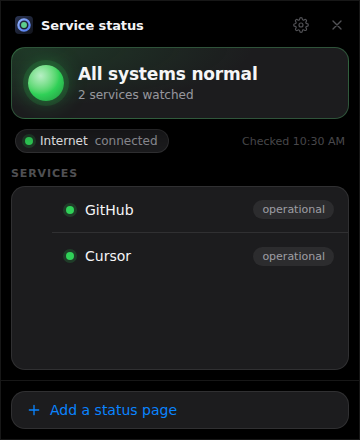
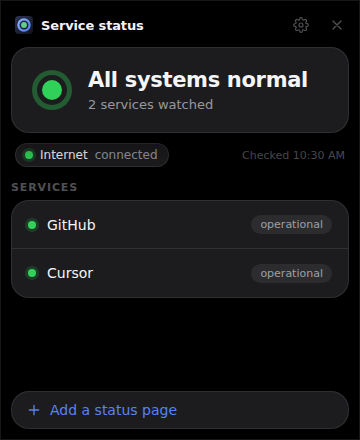
feat(ui): give the panel the brand's own mark and colour, and drop the glows
The hero's state indicator was a glossy radial-gradient sphere with a
coloured glow halo, on a card with its own radial colour wash: a dated,
skeuomorphic look and the glow pattern that reads as generated. It is
now the brand mark itself (a ring around a dot) recoloured by state, as
the tray icon's variants already are, drawn flat. Healthy keeps a plain
card; only trouble gets a flat tint. The popup card loses its wash too.

The accent moves from systemBlue to the brand ring's blue, darkened for
text contrast, so the panel carries the family colour it shares with
task-tracker. The hero headline is larger, and big surfaces get softer
corners and a little more room.

Two layout bugs fixed along the way: the service list never reset the
browser's default list padding, so every row sat 40px in from the card
and a row in trouble drew its red edge floating inside it; and the list
stretched to fill the panel as an empty card. The popup's status-page
link also used a bare Unicode arrow against the repo's own rule that
every icon is a drawn SVG.

Claude-Session: https://claude.ai/code/session_01B9UMFziMhk4DMDDinKgjAC

diff --git a/src/styles.css b/src/styles.css
@@ -4,8 +4,9 @@
  * The window is opaque on purpose: a transparent one needs macOS private API
  * and fails silently without it (see src-tauri/Cargo.toml). So everything
  * modern here happens inside the rectangle: a hero that answers "is anything
- * down?" before a row is read, tinted and lit by the overall state; tiles with
- * glowing dots and level pills; and a popup with an accent edge.
+ * down?" before a row is read, marked with the brand's ring-and-dot in the
+ * overall state's colour; rows with ringed dots and level pills; and a popup
+ * with an accent edge. Flat fills throughout: no glows, no glossy gradients.
  *
  * Motion is GPU-only (transform/opacity) and respects prefers-reduced-motion.
  * State colours are always paired with words, never the only signal.
@@ -15,10 +16,11 @@
   color-scheme: light dark;
 
   /*
-   * Apple's own system colours (light), so this reads as native rather than
-   * "a website with rounded corners": systemGray6/5 for the grouped
-   * background and its raised cards, the label/secondaryLabel/separator
-   * opacities, and systemBlue/Green/Orange/Red for accent and tone.
+   * Apple's system greys and state colours (light) so the chrome still reads
+   * native: systemGray6/5 for the grouped background and its raised cards,
+   * the label/secondaryLabel/separator opacities, systemGreen/Orange/Red for
+   * tone. The accent is not systemBlue: it is the brand mark's ring blue
+   * (src-tauri/icons), darkened for text contrast, shared with task-tracker.
    */
   --bg: #f2f2f7;
   --surface: #ffffff;
@@ -27,7 +29,7 @@
   --ink-dim: rgb(60 60 67 / 60%);
   --ink-faint: rgb(60 60 67 / 35%);
   --line: rgb(60 60 67 / 16%);
-  --accent: #007aff;
+  --accent: #3d64d8;
   --accent-ink: #ffffff;
 
   --good: #34c759;
@@ -35,7 +37,7 @@
   --bad: #ff3b30;
   --idle: #8e8e93;
 
-  --radius: 14px;
+  --radius: 18px;
   --shadow: 0 1px 3px rgb(0 0 0 / 4%), 0 8px 24px rgb(0 0 0 / 6%);
 
   font-family:
@@ -57,7 +59,7 @@
     --ink-dim: rgb(235 235 245 / 60%);
     --ink-faint: rgb(235 235 245 / 35%);
     --line: rgb(255 255 255 / 9%);
-    --accent: #0a84ff;
+    --accent: #5a82f5;
     --accent-ink: #ffffff;
 
     --good: #30d158;
@@ -288,37 +290,36 @@ button {
   position: relative;
   display: flex;
   align-items: center;
-  gap: 14px;
+  gap: 16px;
   margin: 2px 10px 0;
-  padding: 16px;
-  border: 1px solid color-mix(in srgb, var(--tone) 22%, var(--line));
+  padding: 20px;
+  border: 1px solid var(--line);
   border-radius: var(--radius);
-  background:
-    radial-gradient(
-      120% 140% at 0% 0%,
-      color-mix(in srgb, var(--tone) 16%, transparent),
-      transparent 60%
-    ),
-    var(--surface);
+  background: var(--surface);
   box-shadow: var(--shadow);
 }
 
-/* The orb: the state's colour, lit from the upper left. */
+/* Only trouble tints the card; healthy stays plain (see CLAUDE.md). Flat, not a radial wash. */
+.hero[data-tone='warn'],
+.hero[data-tone='bad'] {
+  border-color: color-mix(in srgb, var(--tone) 30%, var(--line));
+  background: color-mix(in srgb, var(--tone) 7%, var(--surface));
+}
+
+/*
+ * The orb is the brand mark (a ring around a dot) recoloured by state, the
+ * way the tray icon's variants are. Flat on purpose: no gloss, no halo.
+ */
 .orb {
   position: relative;
   flex: none;
-  width: 36px;
-  height: 36px;
+  box-sizing: border-box;
+  width: 40px;
+  height: 40px;
+  padding: 5px;
+  border: 5px solid color-mix(in srgb, var(--tone) 35%, transparent);
   border-radius: 50%;
-  background: radial-gradient(
-    circle at 35% 30%,
-    color-mix(in srgb, var(--tone) 35%, white),
-    var(--tone) 55%,
-    color-mix(in srgb, var(--tone) 70%, black)
-  );
-  box-shadow:
-    0 0 0 5px color-mix(in srgb, var(--tone) 14%, transparent),
-    0 0 22px color-mix(in srgb, var(--tone) 45%, transparent);
+  background: var(--tone) content-box;
 }
 
 /*
@@ -328,7 +329,7 @@ button {
 .orb::after {
   content: '';
   position: absolute;
-  inset: 0;
+  inset: -5px;
   border-radius: 50%;
   border: 2px solid var(--tone);
   opacity: 0;
@@ -360,16 +361,16 @@ button {
   font-family:
     -apple-system, BlinkMacSystemFont, 'SF Pro Display', 'Segoe UI Variable Display', 'Segoe UI',
     system-ui, sans-serif;
-  font-size: 17px;
-  font-weight: 650;
-  letter-spacing: -0.01em;
-  line-height: 1.25;
+  font-size: 21px;
+  font-weight: 680;
+  letter-spacing: -0.015em;
+  line-height: 1.2;
 }
 
 .hero-detail {
-  margin: 3px 0 0;
+  margin: 4px 0 0;
   color: var(--ink-dim);
-  font-size: 12px;
+  font-size: 13px;
 }
 
 .hero-detail:empty {
@@ -430,10 +431,12 @@ button {
  * surface, rows separated by a hairline, no per-row border or shadow.
  */
 .service-list {
-  flex: 1;
+  flex: 0 1 auto;
+  min-height: 0;
   display: flex;
   flex-direction: column;
   margin: 0 10px 10px;
+  padding: 0;
   border: 1px solid var(--line);
   border-radius: var(--radius);
   background: var(--surface);
@@ -458,8 +461,8 @@ button {
 
 .service-row {
   width: 100%;
-  min-height: 46px;
-  padding: 9px 14px;
+  min-height: 48px;
+  padding: 10px 16px;
   border: 0;
   background: transparent;
   text-align: left;
@@ -573,8 +576,8 @@ button {
 /* --- Add a status page ---------------------------------------------------- */
 
 .panel-foot {
+  margin-top: auto;
   padding: 10px;
-  border-top: 1px solid var(--line);
 }
 
 .settings-problem {
@@ -738,13 +741,7 @@ body[data-mode='popup'] .panel {
   align-items: flex-start;
   gap: 12px;
   padding: 13px 8px 13px 18px;
-  background:
-    radial-gradient(
-      100% 160% at 0% 0%,
-      color-mix(in srgb, var(--tone) 12%, transparent),
-      transparent 55%
-    ),
-    var(--surface);
+  background: color-mix(in srgb, var(--tone) 6%, var(--surface));
   cursor: pointer;
 }
 
@@ -805,6 +802,11 @@ body[data-mode='popup'] .panel {
   font-size: 12px;
   font-weight: 600;
   cursor: pointer;
+}
+
+.alert-link .icon-glyph {
+  width: 12px;
+  height: 12px;
 }
 
 .alert-link:hover {

diff --git a/src/ui/popup.ts b/src/ui/popup.ts
@@ -19,7 +19,7 @@ import {
 import { describeError } from '../lib/errors.ts';
 import { toneOf } from '../lib/summary.ts';
 import { hidePanel, preparePopup, presentPanel, revealPopup, showError } from '../lib/tauri.ts';
-import { closeIcon } from './icons.ts';
+import { closeIcon, forwardIcon } from './icons.ts';
 
 export class Popup {
   private state: PopupState = EMPTY_POPUP;
@@ -149,12 +149,9 @@ export class Popup {
       link.type = 'button';
       link.className = 'alert-link';
       link.textContent = label;
-      // Decoration stays out of the accessible name: an aria-hidden span, not
-      // CSS generated content, which a screen reader would read as "right arrow".
-      const arrow = document.createElement('span');
-      arrow.setAttribute('aria-hidden', 'true');
-      arrow.textContent = '→';
-      link.append(arrow);
+      // Decoration stays out of the accessible name: an aria-hidden SVG, not CSS
+      // generated content (read aloud as "right arrow") or a Unicode glyph.
+      link.append(forwardIcon());
       link.addEventListener('click', (event) => {
         event.stopPropagation();
         this.openLink(url);

diff --git a/src/ui/icons.ts b/src/ui/icons.ts
@@ -16,6 +16,7 @@ function icon(pathData: string): SVGElement {
   svg.setAttribute('stroke', 'currentColor');
   svg.setAttribute('stroke-width', '2');
   svg.setAttribute('stroke-linecap', 'round');
+  svg.setAttribute('stroke-linejoin', 'round');
   svg.setAttribute('aria-hidden', 'true');
   svg.setAttribute('focusable', 'false');
   const path = document.createElementNS('http://www.w3.org/2000/svg', 'path');
@@ -27,4 +28,9 @@ function icon(pathData: string): SVGElement {
 /** The × used to dismiss a popup alert or remove a watched service. */
 export function closeIcon(): SVGElement {
   return icon('M6 6l12 12M18 6L6 18');
+}
+
+/** The chevron after a link that leaves the app (the popup's status-page link). */
+export function forwardIcon(): SVGElement {
+  return icon('m9 6 6 6-6 6');
 }
